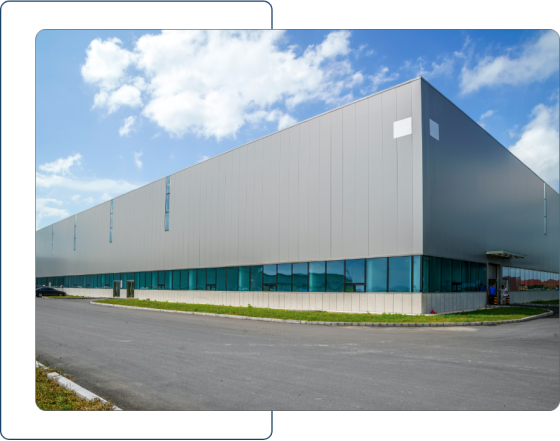
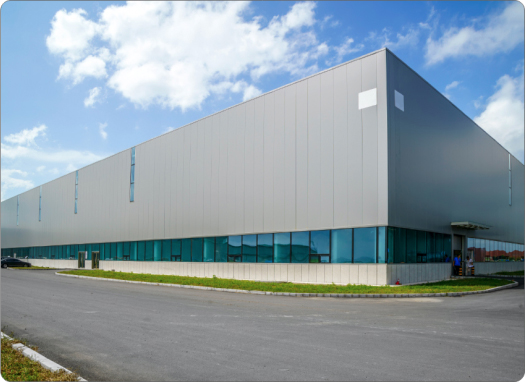
huy edit

diff --git a/lien-ket-dau-tu.html b/lien-ket-dau-tu.html
@@ -102,28 +102,30 @@
         <ul class="lkdt-list">
           <li>
             <a href="hoa-long-co-khi.html">
-              <div class="photo"><img src="./img/invest/lien-ket/c1.png" alt=""></div>
+              <div class="photo">
+                <p class="img"><img src="./img/invest/lien-ket/c1.png" alt=""></p>
+              </div>
               <h3>Kệ công nghiệp</h3>
             </a>
             <p>Công ty Cổ phần Sản xuất Cơ khí Hoà Long</p>
           </li>
           <li>
             <a href="#">
-              <div class="photo"><img src="./img/invest/lien-ket/c2.png" alt=""></div>
+              <div class="photo"><p class="img"><img src="./img/invest/lien-ket/c2.png" alt=""></p></div>
               <h3>Xử lý môi trường</h3>
             </a>
             <p>Công ty Cổ phần Công nghệ Môi trường Kim Long</p>
           </li>
           <li>
             <a href="#">
-              <div class="photo"><img src="./img/invest/lien-ket/c3.png" alt=""></div>
+              <div class="photo"><p class="img"><img src="./img/invest/lien-ket/c3.png" alt=""></p></div>
               <h3>Công nghệ tự động</h3>
             </a>
             <p>Công ty Cổ phần Đầu tư Phát triển Công nghệ tự động Skyat</p>
           </li>
           <li>
             <a href="#">
-              <div class="photo"><img src="./img/invest/lien-ket/c4.png" alt=""></div>
+              <div class="photo"><p class="img"><img src="./img/invest/lien-ket/c4.png" alt=""></p></div>
               <h3>Vận hành và quản trị <br class="pc">doanh nghiệp</h3>
             </a>
             <p>Dịch vụ khác/<br class="pc">Dịch vụ tư vấn tài chính/<br class="pc">Quản trị doanh nghiệp AIO</p>

diff --git a/css/kcn.css b/css/kcn.css
@@ -840,6 +840,29 @@
 	max-width: 50%;
 	padding: 0 0 0 50px;
 }
+.duyc .col-right .box-img {
+	position: relative;
+}
+.duyc .col-right .box-img .line {
+	display: block;
+	width: 240px;
+	height: 400px;
+	border: 1px solid #004988;
+	border-radius: 10px;
+	background: transparent;
+}
+.duyc .col-right .box-img .img {
+	position: absolute;
+	left: 25px;
+	top: 50%;
+	transform: translateY(-50%);
+}
+.duyc .col-right .box-img .img img {
+	border-radius: 10px;
+	object-fit: cover;
+	width: 488px;
+	height: 356px;
+}
 .duyc .duyc-content p {
 	font-size: 16px;
 }
@@ -923,6 +946,12 @@
 	.duyc {
 		padding: 0px 0 60px;
 	}
+	.duyc .col-right .box-img .line {
+    	height: 320px;
+	}
+	.duyc .col-right .box-img .img img {
+		height: 280px;
+	}
 }
 
 @media screen and (max-width: 1000px) {
@@ -935,6 +964,9 @@
 	}
 	.duyc .col-right {
 		padding: 0 0 0 30px;
+	}
+	.duyc .col-right .box-img .line {
+		width: 190px;
 	}
 	.nx-full .title h3 {
 		font-size: 30px;

diff --git a/css/style.css b/css/style.css
@@ -3244,10 +3244,18 @@ body.bg {
 .lkdt-list li:nth-child(4) .photo::after {
 	content: "4";
 }
+.lkdt-list .photo .img {
+    width: 170px;
+    height: 170px;
+    margin: 0 auto;
+    border-radius: 50%;
+}
 .lkdt-list .photo img {
-	display: block;
-	margin: 0 auto;
-	height: 170px;
+    display: block;
+    margin: 0 auto;
+    height: 170px;
+    object-fit: cover;
+    border-radius: 50%;
 }
 @media only screen and (min-width: 1441px) {
 	.lkdt-list li {

diff --git a/kcn-hai-son.html b/kcn-hai-son.html
@@ -105,7 +105,10 @@
           </div>
         </div>
         <div class="col-right">
-          <img src="./img/invest/kcn/kcn-hs1.jpg" alt="">
+          <div class="box-img">
+            <span class="line"></span>
+            <p class="img"><img src="./img/invest/kcn/kcn-hs1.jpg" alt=""></p>
+          </div>
         </div>
       </div>
     </div>
